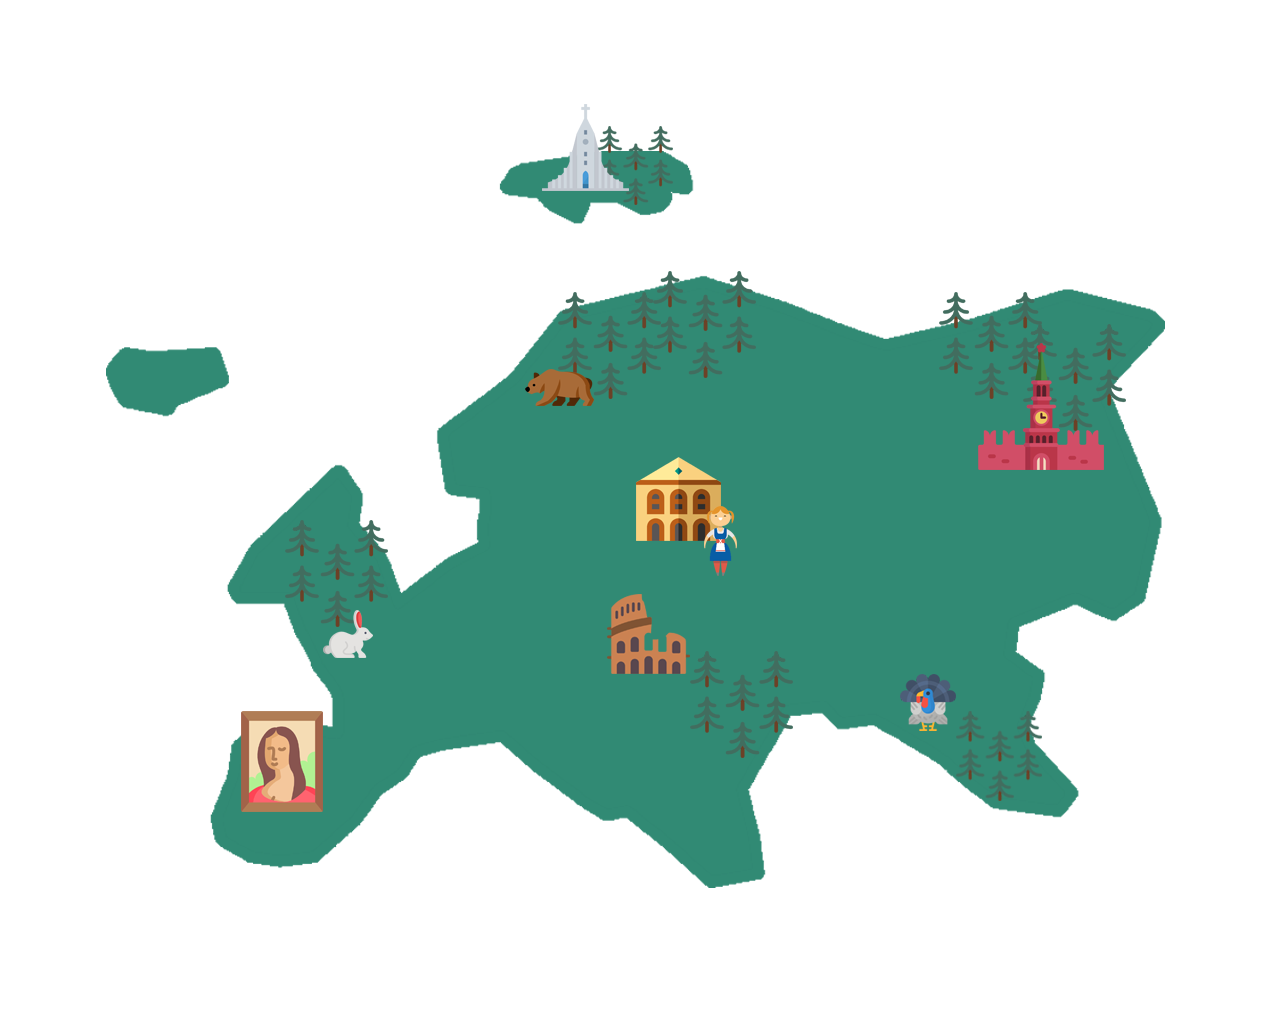
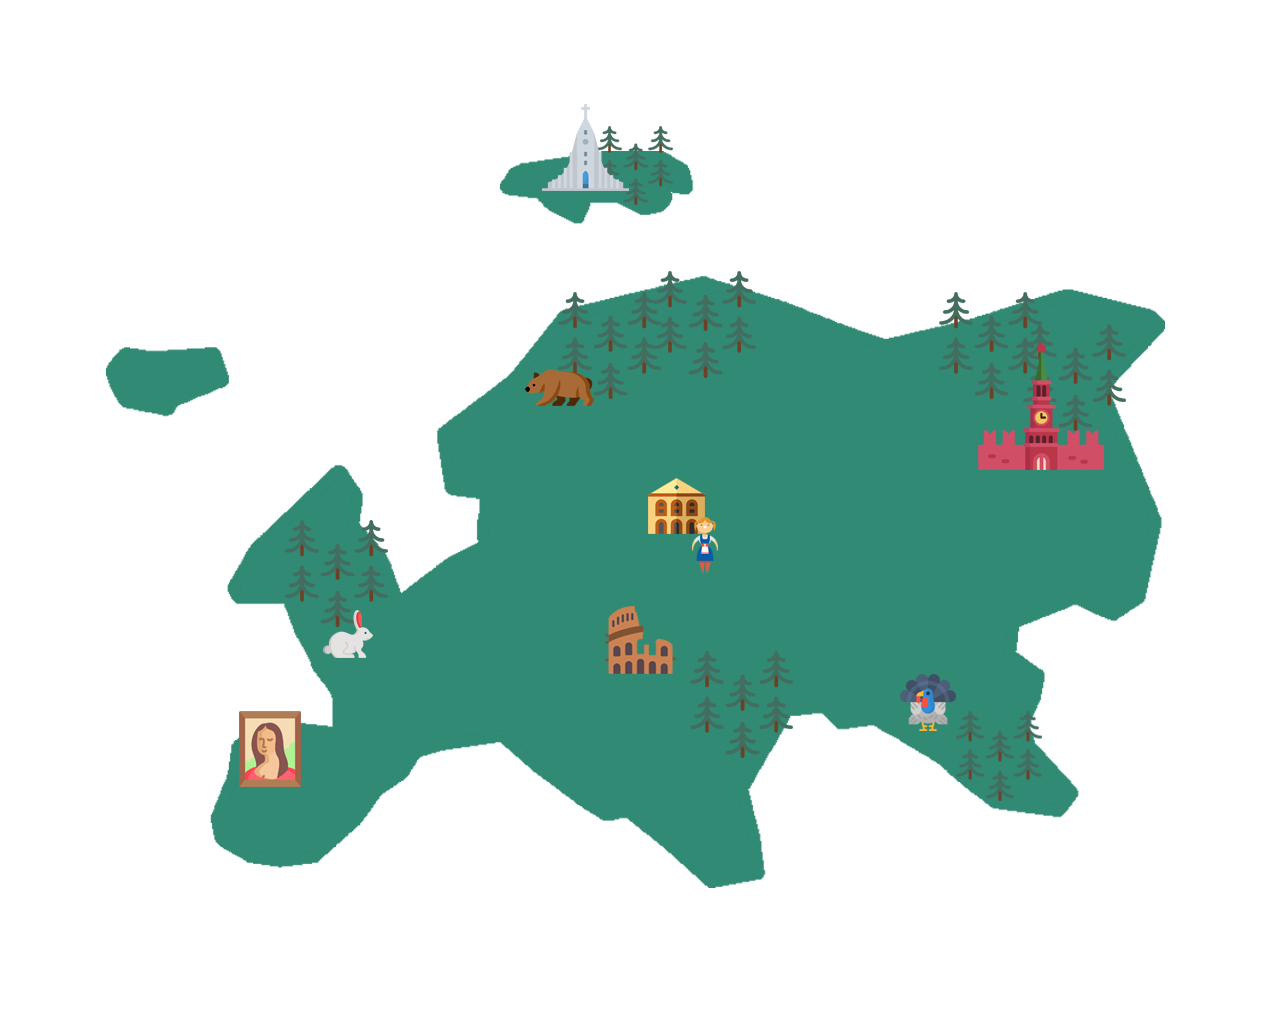
แก้ europe

Changed region(s): [[0.5, 0.4375, 0.5938, 0.5625], [0.1875, 0.6875, 0.25, 0.8125], [0.4688, 0.5625, 0.5625, 0.6562]]

diff --git a/css/europe.css b/css/europe.css
@@ -11,15 +11,15 @@
 }
 
 #paris{
-	width: 10%;
-	height: 8vw;
+	width: 12.5%;
+	height: 10vw;
 	background-image: url(../image/eiffel-tower.png);
 	background-size: 100%;
 	background-repeat: no-repeat;
 	background-position: center;
 	position: absolute;
-	margin-left: 34%;
-	margin-top: 33%;
+	margin-left: 32%;
+	margin-top: 29%;
 }
 
 #paris:hover{
@@ -39,7 +39,7 @@
 	background-position: center;
 	position: absolute;
 	margin-left: 48%;
-	margin-top: 42%;
+	margin-top: 41%;
 }
 
 #parthenon:hover{
@@ -51,15 +51,15 @@
 }
 
 #uk{
-	width: 10%;
-	height: 8vw;
+	width: 12.5%;
+	height: 10vw;
 	background-image: url(../image/stonehenge.png);
 	background-size: 100%;
 	background-repeat: no-repeat;
 	background-position: center;
 	position: absolute;
 	margin-left: 58%;
-	margin-top: 30%;
+	margin-top: 28%;
 }
 
 #uk:hover{
